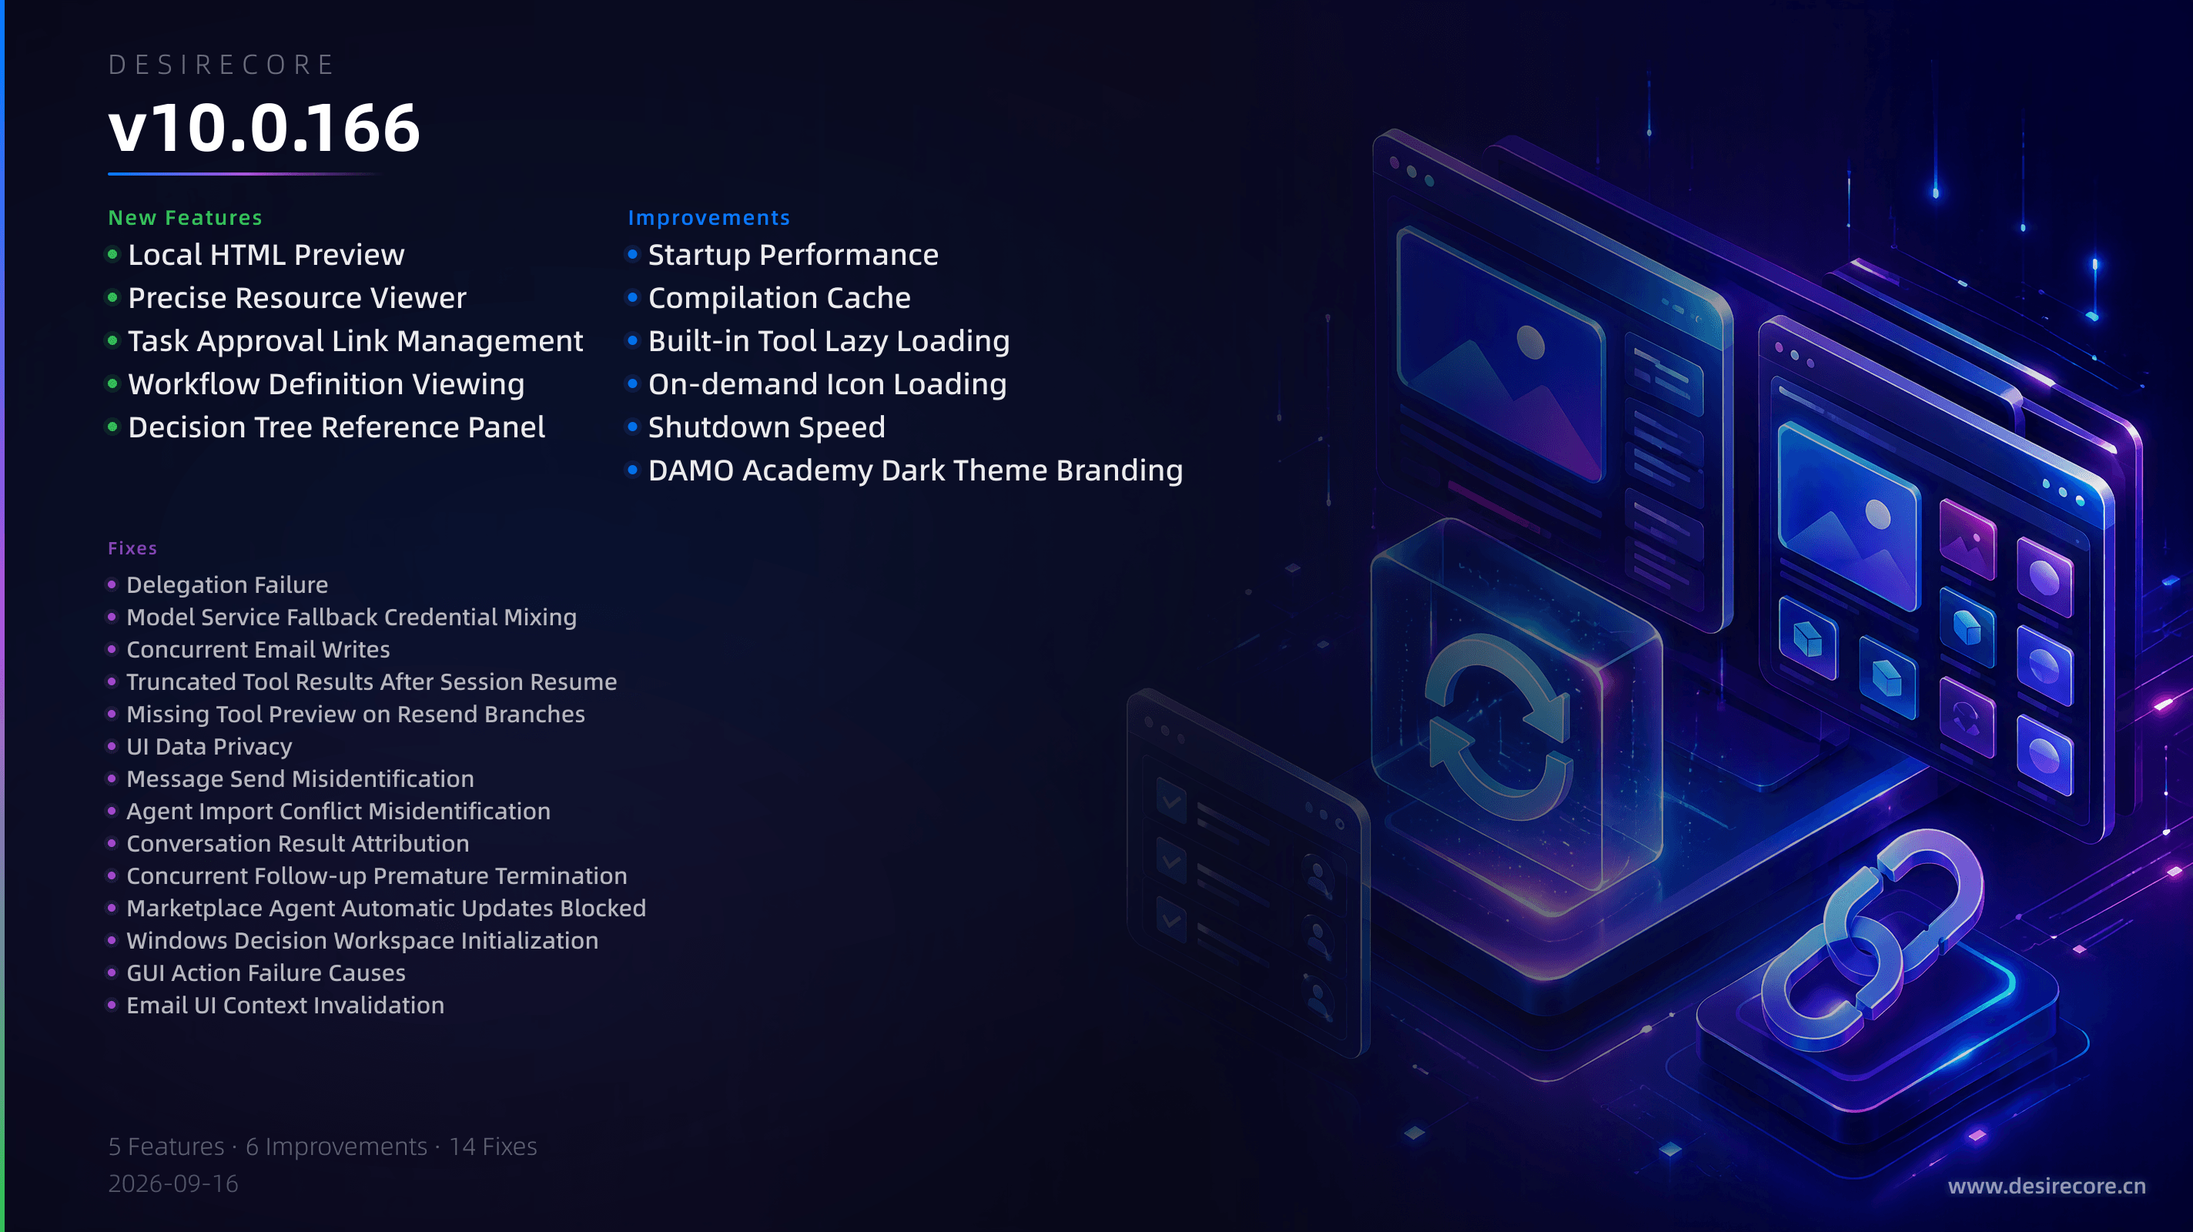
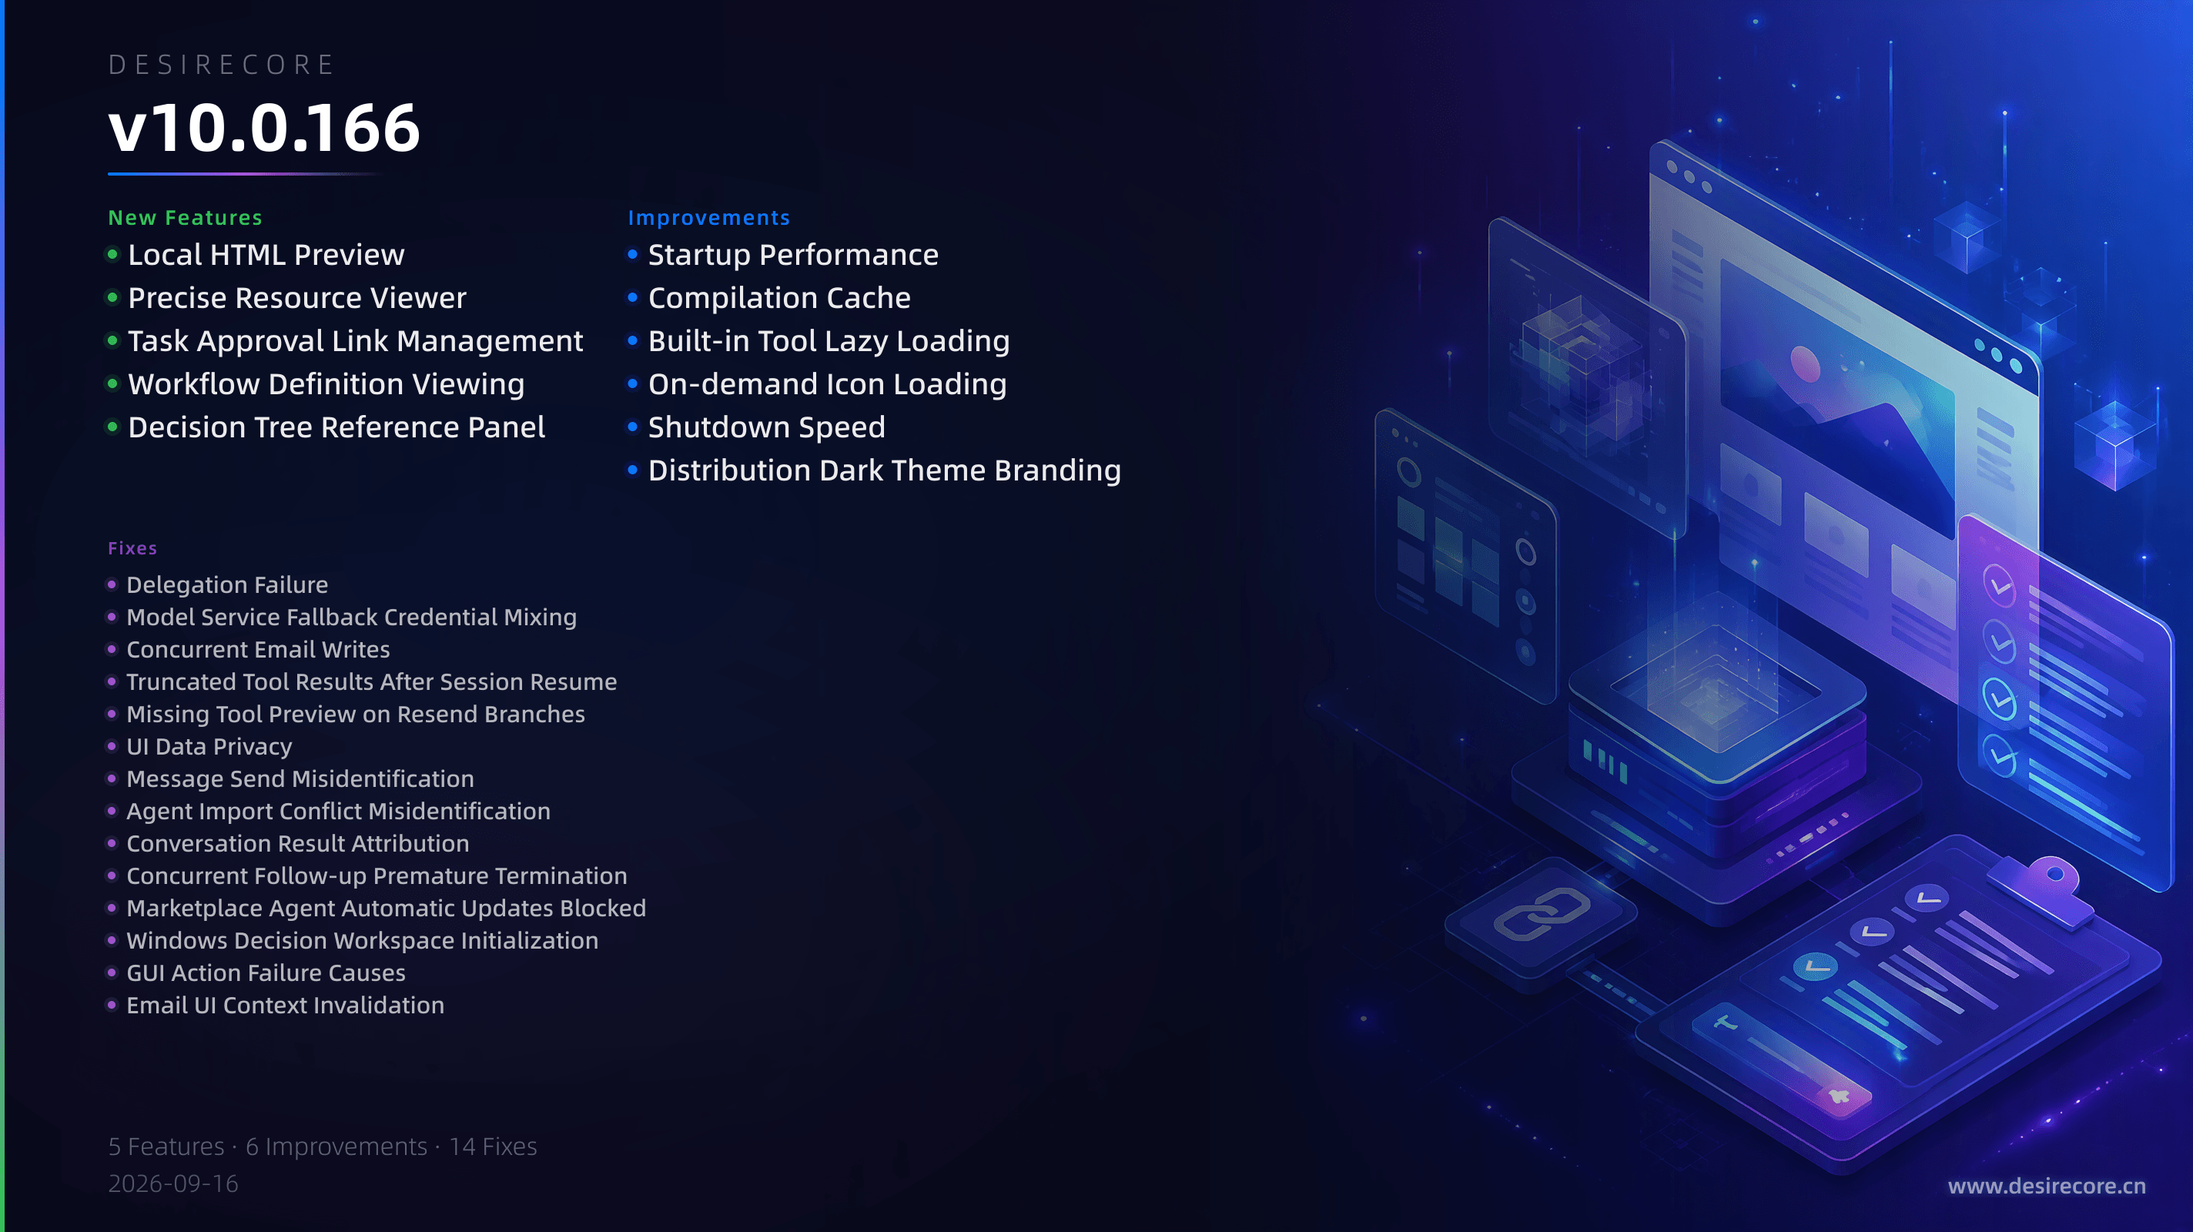
docs: 移除更新日志中的第三方品牌字眼并重新生成受影响封面 (#57)
移除发行版专属更新日志章节，中和相关版本页面与索引里的第三方品牌字眼，重新生成受影响的 8 张封面，并在封面提示词中补充禁止第三方品牌。

diff --git a/docs/05-more/11-changelog/index.md b/docs/05-more/11-changelog/index.md
@@ -20,8 +20,8 @@ keywords: [更新日志, 版本历史, changelog]
 | [v10.0.167](./v10.0.167) | 2026-09-17 | 修复：了从 Windows 或外置盘迁移数据后，因目录权限过宽或使用符号链接导致应用卡在“暂时无法进入 DesireCore”恢复页、无法启动的问题。、了... |
 | [v10.0.166](./v10.0.166) | 2026-09-16 | 本地 HTML 预览、精确资源查看器、任务审批链接管理、工作流定义查看、决策树引用面板，修复 14 项问题，改进 6 项 |
 | [v10.0.165](./v10.0.165) | 2026-09-16 | 修复：IMAP 邮箱中名为「垃圾邮件」或「垃圾郵件」的文件夹被错误归入“已删除”的问题，历史邮件已自动迁移到“垃圾邮件”分类。、浏览器在 macOS 后台... |
-| [v10.0.164](./v10.0.164) | 2026-09-16 | 多发行版实例管理、数据目录归属保护、OAuth 与 Outlook 回调精准投递、任务板深链跨实例交接、多发行版并装与升级隔离、达摩院AgentOS 品牌... |
-| [v10.0.163](./v10.0.163) | 2026-09-15 | 内置浏览器显式接管与对话恢复、1Password 凭据源集成、多实例名录 v2、Claude 订阅界面上下文开放、达摩院求解器发行版（OEM）、OEM 发... |
+| [v10.0.164](./v10.0.164) | 2026-09-16 | 多发行版实例管理、数据目录归属保护、OAuth 与 Outlook 回调精准投递、任务板深链跨实例交接、多发行版并装与升级隔离、Claude 订阅工具恢复... |
+| [v10.0.163](./v10.0.163) | 2026-09-15 | 内置浏览器显式接管与对话恢复、1Password 凭据源集成、多实例名录 v2、Claude 订阅界面上下文开放、求解器发行版（OEM）、OEM 发... |
 | [v10.0.162](./v10.0.162) | 2026-09-14 | 1Password 凭据源，修复 3 项问题，改进 1 项 |
 | [v10.0.161](./v10.0.161) | 2026-09-14 | 手动会话排序新增“创建时间”、新增 DeepSeek V4.1 Flash 模型支持，修复 3 项问题，改进 1 项 |
 | [v10.0.160](./v10.0.160) | 2026-09-13 | 账号系统与凭据授权、Agent 主导的应用关联与独立卸载、委派前文件汇总校验、受信任脚本快照输入输出、运行中委派的实时进度、核心 Agent 缺失告警，修... |
@@ -44,7 +44,7 @@ keywords: [更新日志, 版本历史, changelog]
 | [v10.0.142](./v10.0.142) | 2026-09-03 | 多账号凭据管理、启动失败兜底与诊断、浏览器安全填密，修复 10 项问题，改进 1 项 |
 | [v10.0.141](./v10.0.141) | 2026-09-02 | 工作目录侧栏可拖拽调宽与折叠，修复 2 项问题 |
 | [v10.0.140](./v10.0.140) | 2026-09-02 | 长驻输出事件流，修复 4 项问题，改进 2 项 |
-| [v10.0.139](./v10.0.139) | 2026-09-02 | 人机共管数据工作台、决策工作区闭环与图共管、Ollama 算力零配置接入、豆包搜索与工具后端优先级、技能外部二进制依赖检测、隐藏 DAMO 演示品牌切换，... |
+| [v10.0.139](./v10.0.139) | 2026-09-02 | 人机共管数据工作台、决策工作区闭环与图共管、Ollama 算力零配置接入、豆包搜索与工具后端优先级、技能外部二进制依赖检测、隐藏演示品牌切换，... |
 | [v10.0.138](./v10.0.138) | 2026-09-01 | 市场团队资产分发、安装后待办清单、文件摘要工具（FileDigest）、对话任务自动登记、团队成员远程来源，修复 11 项问题，改进 3 项 |
 | [v10.0.137](./v10.0.137) | 2026-09-01 | 统一目录元数据与获取收据，修复 6 项问题，改进 2 项 |
 | [v10.0.136](./v10.0.136) | 2026-08-31 | 修复：技能安全、交付配对与提醒、委派恢复、市场 Agent 详情、待办提示、Git 认证错误、Provider 审计，改进 3 项 |

diff --git a/i18n/en/docusaurus-plugin-content-docs/current/05-more/11-changelog/v10.0.164.md b/i18n/en/docusaurus-plugin-content-docs/current/05-more/11-changelog/v10.0.164.md
@@ -10,12 +10,11 @@ sidebar_position: -64
 ![v10.0.164 更新概览](/img/changelog/v10.0.164-en.png)
 
 ## New Features
-- **Multi-distribution instance management**: The instance picker now displays all local DesireCore / DAMO Academy AgentOS instances grouped by distribution, supports viewing running status, opening, switching to an already running window, and removing instances, and launches the corresponding version of the application based on the distribution each instance belongs to.
+- **Multi-distribution instance management**: The instance picker now displays all local instances of DesireCore and other distributions, grouped by distribution, supports viewing running status, opening, switching to an already running window, and removing instances, and launches the corresponding version of the application based on the distribution each instance belongs to.
 - **Data directory ownership protection**: Each data directory can only be opened by its owning distribution. If opened by another distribution by mistake, the app enters a fallback page or asks for confirmation to take over, preventing cross-distribution data writes.
 - **Precise OAuth and Outlook callback delivery**: When multiple instances are running at the same time, browser authorization callbacks are delivered only to the instance that initiated authorization instead of being broadcast to every instance. Cold-start processes used only for routing callbacks do not open the main window.
 - **Cross-instance task board deep link handoff**: When multiple instances using the same protocol exist on the machine, task board links include an instance identifier and open directly to the instance that owns the task. If the target is not running, it is automatically launched according to its owning distribution.
 - **Multi-distribution side-by-side installation and upgrade isolation**: The Windows installer, upgrade flow, and Linux AppImage installation script all work according to distribution identity. Different distributions can be installed side by side, upgraded, and uninstalled independently, and upgrades do not mistakenly terminate processes of other distributions or overwrite protocols.
-- **DAMO Academy AgentOS branding update**: The former “DAMO Academy Solver Agent” has been renamed to “DAMO Academy AgentOS,” and executable and installer package names have been updated accordingly.
 - **Claude subscription tool recovery**: When a Claude model directly calls an undeclared tool, it no longer fails the entire turn and incurs repeated billing. Instead, it returns the result as “tool does not exist,” allowing the model to discover the tool on its own and continue.
 
 ## Fixes

diff --git a/docs/05-more/11-changelog/v10.0.164.md b/docs/05-more/11-changelog/v10.0.164.md
@@ -10,12 +10,11 @@ sidebar_position: -64
 ![v10.0.164 更新概览](/img/changelog/v10.0.164.png)
 
 ## 新功能
-- **多发行版实例管理**：实例选择器现在按发行版分组显示本机所有 DesireCore / 达摩院AgentOS 实例，支持查看运行状态、打开、切换到已运行窗口和移除实例，并按实例所属发行版启动对应版本应用。
+- **多发行版实例管理**：实例选择器现在按发行版分组显示本机所有 DesireCore 及其他发行版的实例，支持查看运行状态、打开、切换到已运行窗口和移除实例，并按实例所属发行版启动对应版本应用。
 - **数据目录归属保护**：每个数据目录只会由所属发行版打开，误用其他发行版打开时会进入兜底页或要求确认接管，避免跨发行版误写数据。
 - **OAuth 与 Outlook 回调精准投递**：多个实例同时运行时，浏览器授权回调只投递给发起授权的实例，不再逐个广播；仅用于路由回调的冷启动进程不会打开主窗口。
 - **任务板深链跨实例交接**：本机有多个同协议实例时，任务板链接会带上实例标识，打开后直接导航到任务所属实例；目标未运行时会按所属发行版自动拉起。
 - **多发行版并装与升级隔离**：Windows 安装器、升级流程和 Linux AppImage 安装脚本均按发行版身份工作，不同发行版可并装、独立升级和卸载，升级时不会误结束其他发行版进程或覆盖协议。
-- **达摩院AgentOS 品牌更新**：原“达摩院求解器智能体”更名为“达摩院AgentOS”，可执行文件与安装包名称同步调整。
 - **Claude 订阅工具恢复**：Claude 模型直接调用未声明工具时不再整轮失败并重复计费，而是按“工具不存在”交回，由模型自行发现工具并继续。
 
 ## 修复

diff --git a/i18n/en/docusaurus-plugin-content-docs/current/05-more/11-changelog/v10.0.139.md b/i18n/en/docusaurus-plugin-content-docs/current/05-more/11-changelog/v10.0.139.md
@@ -15,7 +15,7 @@ sidebar_position: -39
 - **Zero-Configuration Ollama Compute Integration**: On startup, the app automatically detects local Ollama, automatically creates and enables a Provider the first time it is online, and discovers local models. Local models that do not match an exact specification can still participate in Smart intelligent routing based on parameter scale.
 - **Doubao Search and Tool Backend Priority**: Added Doubao Search as an alternative WebSearch Provider, and supported editing each Provider's priority in the tool backend interface. A smaller number means it will be tried earlier.
 - **Skill External Binary Dependency Detection**: Skills can declare required external command-line programs. When they are missing, the Agent will explain the situation truthfully and provide installation guidance, instead of retrying repeatedly or falsely reporting success.
-- **Hidden DAMO Demo Brand Toggle**: Press Alt+Shift+B to switch between the DAMO demo brand (including Logo, the "Chief Dispatcher" core agent, and dedicated avatar) and the default brand. The choice is retained in the current instance.
+- **Hidden Demo Brand Toggle**: Press Alt+Shift+B to switch between the demo brand (including Logo, the "Chief Dispatcher" core agent, and dedicated avatar) and the default brand. The choice is retained in the current instance.
 
 ## Fixes
 - Fixed an issue where deep reasoning tasks were mistakenly killed by the idle watchdog after long periods without events and then retried repeatedly: after a timeout, the app now first checks whether the connection is available, and if the connection is normal, it continues waiting for reasoning to complete.

diff --git a/i18n/en/docusaurus-plugin-content-docs/current/05-more/11-changelog/v10.0.163.md b/i18n/en/docusaurus-plugin-content-docs/current/05-more/11-changelog/v10.0.163.md
@@ -10,7 +10,7 @@ sidebar_position: -63
 ![v10.0.163 更新概览](/img/changelog/v10.0.163-en.png)
 
 ## New Features
-- **DAMO Academy solver agent distribution**: On first launch, automatically installs the built-in solver agent, team, solver connector configuration, and decision workspace, and supports side-by-side installation and operation with DesireCore.
+- **Solver agent distribution**: On first launch, automatically installs the built-in solver agent, team, solver connector configuration, and decision workspace, and supports side-by-side installation and operation with DesireCore.
 - **1Password credential source integration**: The account management page now supports connecting to, browsing, linking, and disconnecting 1Password sources; it also adds a desktop integration import channel that can search 1Password items and copy them into the built-in credential vault.
 - **Explicit browser user takeover and conversation resume**: The built-in browser adds an "I'll take over" button for users to explicitly take over, removes the "Resume Agent" button, and after users finish operating they can simply say "you continue" in the conversation to let the Agent resume.
 - **Claude subscription UI context**: Claude subscription users can enable visible UI context, allowing the Agent to view the current interface and perform UI actions.

diff --git a/docs/05-more/11-changelog/v10.0.139.md b/docs/05-more/11-changelog/v10.0.139.md
@@ -15,7 +15,7 @@ sidebar_position: -39
 - **Ollama 算力零配置接入**：启动时自动探测本机 Ollama，首次在线自动创建并启用 Provider、自动发现本地模型；未命中精确规格的本地模型也能按参数量级参与 Smart 智能路由。
 - **豆包搜索与工具后端优先级**：新增豆包搜索作为 WebSearch 备选 Provider，并支持在工具后端界面编辑各 Provider 的优先级，数值越小越先尝试。
 - **技能外部二进制依赖检测**：技能可声明所依赖的外部命令行程序，缺失时 Agent 会如实说明并提供安装指引，不再反复重试或虚报成功。
-- **隐藏 DAMO 演示品牌切换**：按 Alt+Shift+B 可在 DAMO 演示品牌（含 Logo、“总调度”核心智能体及专用头像）与默认品牌间切换，选择会保留在当前实例。
+- **隐藏演示品牌切换**：按 Alt+Shift+B 可在演示品牌（含 Logo、“总调度”核心智能体及专用头像）与默认品牌间切换，选择会保留在当前实例。
 
 ## 修复
 - 修复深度推理任务在长时间无事件时被空闲 watchdog 误杀并反复重试的问题：超时后会先检测连接是否可用，连接正常则继续等待推理完成。

diff --git a/docs/05-more/11-changelog/v10.0.163.md b/docs/05-more/11-changelog/v10.0.163.md
@@ -10,7 +10,7 @@ sidebar_position: -63
 ![v10.0.163 更新概览](/img/changelog/v10.0.163.png)
 
 ## 新功能
-- **达摩院求解器智能体发行版**：首次打开自动安装内置求解器智能体、团队、求解器连接器配置与决策工作区，并支持与 DesireCore 并装运行。
+- **求解器智能体发行版**：首次打开自动安装内置求解器智能体、团队、求解器连接器配置与决策工作区，并支持与 DesireCore 并装运行。
 - **1Password 凭据源接入**：账号管理页支持连接、浏览、link 与断开 1Password 源；并新增桌面集成导入通道，可搜索 1Password 条目并复制进内置凭据库。
 - **浏览器用户显式接管与对话恢复**：内置浏览器新增「我来操作」按钮供用户显式接管，去掉「恢复 Agent」按钮，用户操作完可直接在对话中说“你继续”让 Agent 恢复。
 - **Claude 订阅界面上下文**：Claude 订阅用户可开启可见界面上下文，Agent 能查看当前界面并执行界面动作。

diff --git a/i18n/en/docusaurus-plugin-content-docs/current/05-more/11-changelog/v10.0.166.md b/i18n/en/docusaurus-plugin-content-docs/current/05-more/11-changelog/v10.0.166.md
@@ -38,4 +38,4 @@ sidebar_position: -66
 - **Built-in Tool Lazy Loading**: UI context tool execution logic is now loaded on first use, reducing module registration cost.
 - **On-demand Icon Loading**: The icon library is now imported on demand, reducing the load burden for the application and tests.
 - **Shutdown Speed**: On exit, background remote sync, bulk Agent Git migration, and marketplace sync now respond to shutdown signals, eliminating long blocking during exit.
-- **DAMO Academy Dark Theme Branding**: The DAMO Academy distribution uses an inverted logo in dark theme to prevent black text from being difficult to read on dark backgrounds.
+- **Distribution Dark Theme Branding**: Non-default distributions use an inverted logo in dark theme to prevent black text from being difficult to read on dark backgrounds.

diff --git a/docs/05-more/11-changelog/v10.0.166.md b/docs/05-more/11-changelog/v10.0.166.md
@@ -38,4 +38,4 @@ sidebar_position: -66
 - **内置工具懒加载**：UI 上下文工具的执行逻辑改为首次使用时才加载，降低模块注册成本。
 - **图标按需加载**：图标库改为按需导入，减少应用与测试的加载负担。
 - **停机速度**：退出时后台远端同步、Agent Git 批量迁移与市场同步现在会响应关停信号，退出不再长时间卡顿。
-- **达摩院深色主题品牌**：达摩院发行版在暗色主题下使用反色 Logo，避免黑字在深色背景上难以识别。
+- **发行版深色主题品牌**：非默认发行版在暗色主题下使用反色 Logo，避免黑字在深色背景上难以识别。

diff --git a/i18n/en/docusaurus-plugin-content-docs/current/05-more/index.md b/i18n/en/docusaurus-plugin-content-docs/current/05-more/index.md
@@ -21,4 +21,3 @@ Here you'll find quick reference materials and changelog for DesireCore.
 | [Open Source Repositories](./09-open-source-repos.md) | Overview of official GitHub repositories |
 | [Third-Party Software & Licenses](./10-third-party-software.md) | Bundled third-party components and open-source licenses |
 | [Changelog](./11-changelog/index.md) | Version update history |
-| [达摩院AgentOS Changelog](./12-damo-solver-changelog/index.md) | 达摩院AgentOS version update history |

diff --git a/docs/05-more/index.md b/docs/05-more/index.md
@@ -21,4 +21,3 @@ sidebar_position: 0
 | [开源仓库](./09-open-source-repos.md) | 官方 GitHub 仓库一览 |
 | [第三方软件与许可](./10-third-party-software.md) | 内置第三方组件及开源许可 |
 | [更新日志](./11-changelog/index.md) | 版本更新历史记录 |
-| [达摩院AgentOS更新日志](./12-damo-solver-changelog/index.md) | 达摩院AgentOS版本更新历史记录 |
